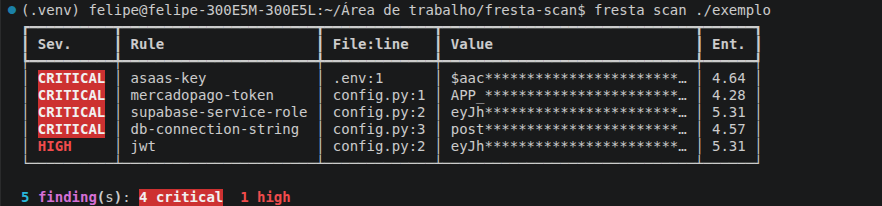
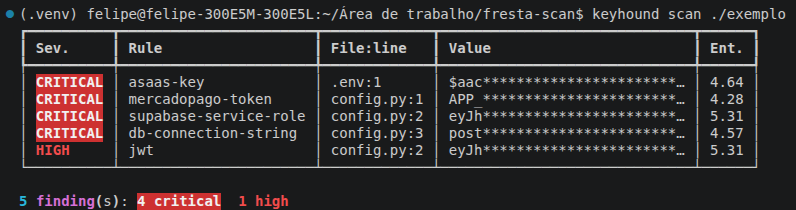
chore: rename project to Keyhound

Changed region(s): [[0.0, 0.0, 0.995, 0.8155], [0.0, 0.9029, 0.3618, 1.0]]

diff --git a/core/keyhound/filters.py b/core/keyhound/filters.py
@@ -1,7 +1,7 @@
 """Anti-ruído: decide o que NÃO é segredo de verdade.
 
 Três camadas, da mais barata para a mais cara:
-  1. caminho ignorado pelo .frestaignore
+  1. caminho ignorado pelo .keyhoundignore
   2. valor é placeholder óbvio (CHANGEME, xxxx, <your-key>)
   3. valor está na allowlist de exemplos públicos conhecidos
 """
@@ -12,7 +12,7 @@ import fnmatch
 import re
 from pathlib import Path
 
-IGNORE_FILE = ".frestaignore"
+IGNORE_FILE = ".keyhoundignore"
 
 KNOWN_EXAMPLES: frozenset[str] = frozenset({
     "AKIAIOSFODNN7EXAMPLE",
@@ -37,7 +37,7 @@ PLACEHOLDER_PATTERNS: tuple[re.Pattern[str], ...] = tuple(
 
 
 def load_ignore_patterns(root: Path) -> list[str]:
-    """Lê o .frestaignore. Linha vazia e comentário são descartados."""
+    """Lê o .keyhoundignore. Linha vazia e comentário são descartados."""
     ignore_file = root / IGNORE_FILE
     if not ignore_file.is_file():
         return []
@@ -52,7 +52,7 @@ def load_ignore_patterns(root: Path) -> list[str]:
 
 
 def is_ignored_path(path: Path, root: Path, patterns: list[str]) -> bool:
-    """Casa o caminho relativo contra os globs do .frestaignore."""
+    """Casa o caminho relativo contra os globs do .keyhoundignore."""
     if not patterns:
         return False
 

diff --git a/core/keyhound/cli.py b/core/keyhound/cli.py
@@ -6,21 +6,21 @@ from typing import Annotated
 import typer
 from rich.console import Console
 
-from fresta import __version__
-from fresta.history import scan_history
-from fresta.models import Severity
-from fresta.report import (
+from keyhound import __version__
+from keyhound.history import scan_history
+from keyhound.models import Severity
+from keyhound.report import (
     history_to_json,
     print_history_table,
     print_summary,
     print_table,
     to_json,
 )
-from fresta.rules import rules_by_severity
-from fresta.scanner import scan_directory
+from keyhound.rules import rules_by_severity
+from keyhound.scanner import scan_directory
 
 app = typer.Typer(
-    help="Fresta — find exposed credentials in your code.",
+    help="Keyhound — find exposed credentials in your code.",
     no_args_is_help=True,
     add_completion=False,
 )
@@ -106,7 +106,7 @@ def history(
 @app.command()
 def version() -> None:
     """Show the version."""
-    console.print(f"fresta {__version__}")
+    console.print(f"keyhound {__version__}")
 
 
 if __name__ == "__main__":

diff --git a/core/keyhound/scanner.py b/core/keyhound/scanner.py
@@ -5,10 +5,10 @@ from __future__ import annotations
 from collections.abc import Iterable, Iterator
 from pathlib import Path
 
-from fresta.entropy import shannon_entropy
-from fresta.filters import is_ignored_path, is_noise, load_ignore_patterns
-from fresta.models import Finding, Rule
-from fresta.rules import RULES
+from keyhound.entropy import shannon_entropy
+from keyhound.filters import is_ignored_path, is_noise, load_ignore_patterns
+from keyhound.models import Finding, Rule
+from keyhound.rules import RULES
 
 IGNORED_DIRS: frozenset[str] = frozenset({
     ".git", ".hg", ".svn", "node_modules", ".venv", "venv", "env",

diff --git a/core/tests/test_cli.py b/core/tests/test_cli.py
@@ -3,7 +3,7 @@ from pathlib import Path
 
 from typer.testing import CliRunner
 
-from fresta.cli import app
+from keyhound.cli import app
 
 runner = CliRunner()
 FIXTURES = Path(__file__).parent / "fixtures"
@@ -69,7 +69,7 @@ def test_invalid_path_returns_two():
 def test_version():
     result = runner.invoke(app, ["version"])
     assert result.exit_code == 0
-    assert "fresta" in result.stdout
+    assert "keyhound" in result.stdout
 
 
 def test_history_on_plain_directory(tmp_path):

diff --git a/core/tests/test_filters.py b/core/tests/test_filters.py
@@ -1,4 +1,4 @@
-from fresta.filters import (
+from keyhound.filters import (
     is_ignored_path,
     is_known_example,
     is_noise,
@@ -26,7 +26,7 @@ def test_known_example_is_filtered():
 
 
 def test_load_ignore_skips_comments(tmp_path):
-    (tmp_path / ".frestaignore").write_text("# comment\n\ndocs/\n*.lock\n")
+    (tmp_path / ".keyhoundignore").write_text("# comment\n\ndocs/\n*.lock\n")
     assert load_ignore_patterns(tmp_path) == ["docs/", "*.lock"]
 
 

diff --git a/core/keyhound/history.py b/core/keyhound/history.py
@@ -6,9 +6,9 @@ import subprocess
 from dataclasses import dataclass
 from pathlib import Path
 
-from fresta.models import Finding, Rule
-from fresta.rules import RULES
-from fresta.scanner import _scan_line
+from keyhound.models import Finding, Rule
+from keyhound.rules import RULES
+from keyhound.scanner import _scan_line
 
 COMMIT_SEPARATOR = "@@FRESTA-COMMIT@@"
 MAX_LINE_LENGTH = 4096

diff --git a/core/tests/test_rules.py b/core/tests/test_rules.py
@@ -1,8 +1,8 @@
 import pytest
 
-from fresta.entropy import shannon_entropy
-from fresta.models import Severity
-from fresta.rules import RULES, rules_by_severity
+from keyhound.entropy import shannon_entropy
+from keyhound.models import Severity
+from keyhound.rules import RULES, rules_by_severity
 
 BY_ID = {r.id: r for r in RULES}
 

diff --git a/core/keyhound/__init__.py b/core/keyhound/__init__.py
@@ -1,0 +1,8 @@
+"""Keyhound — detector de credenciais expostas em código."""
+
+__version__ = "0.2.0"
+
+from keyhound.models import Finding, Rule, Severity
+from keyhound.scanner import scan_directory
+
+__all__ = ["Finding", "Rule", "Severity", "scan_directory", "__version__"]

diff --git a/core/keyhound/report.py b/core/keyhound/report.py
@@ -6,7 +6,7 @@ from pathlib import Path
 from rich.console import Console
 from rich.table import Table
 
-from fresta.models import Finding, Severity
+from keyhound.models import Finding, Severity
 
 COLORS: dict[Severity, str] = {
     Severity.CRITICAL: "bold white on red",

diff --git a/core/keyhound/rules.py b/core/keyhound/rules.py
@@ -1,6 +1,6 @@
 """Catálogo de regras. Só dados, nenhuma lógica."""
 
-from fresta.models import Rule, Severity
+from keyhound.models import Rule, Severity
 
 RULES: list[Rule] = [
     # ---------- Global services ----------

diff --git a/core/tests/test_history.py b/core/tests/test_history.py
@@ -3,7 +3,7 @@ from pathlib import Path
 
 import pytest
 
-from fresta.history import is_git_repository, scan_history
+from keyhound.history import is_git_repository, scan_history
 
 
 def _git(repo: Path, *args: str) -> None:

diff --git a/core/tests/test_scanner.py b/core/tests/test_scanner.py
@@ -1,6 +1,6 @@
 from pathlib import Path
 
-from fresta.scanner import is_binary, iter_files, scan_directory
+from keyhound.scanner import is_binary, iter_files, scan_directory
 
 FIXTURES = Path(__file__).parent / "fixtures"
 
